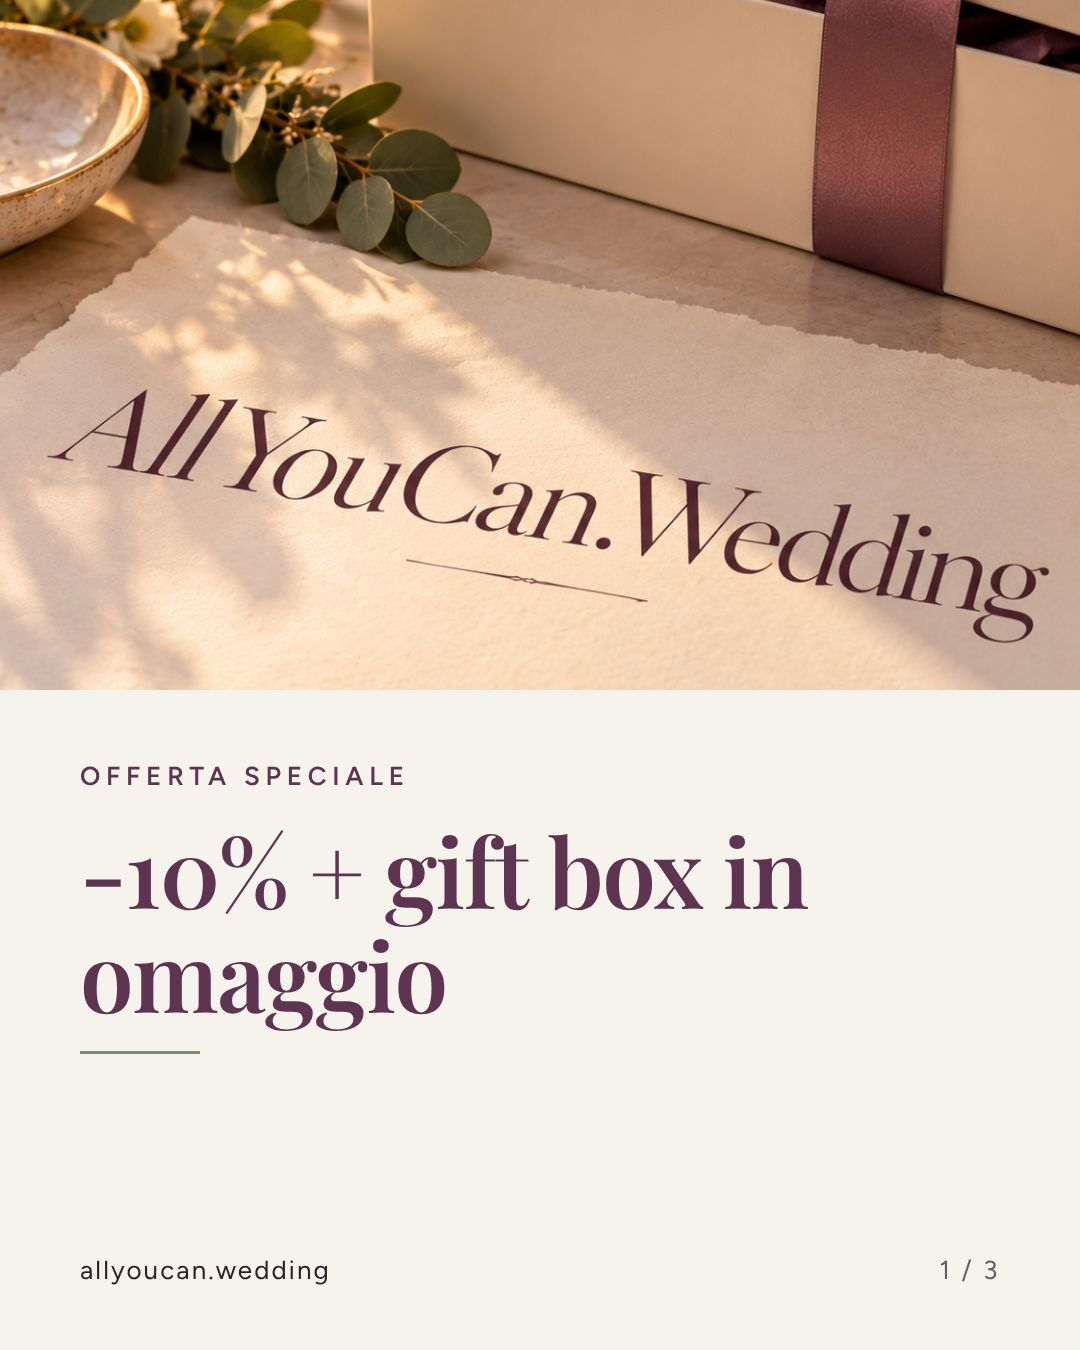
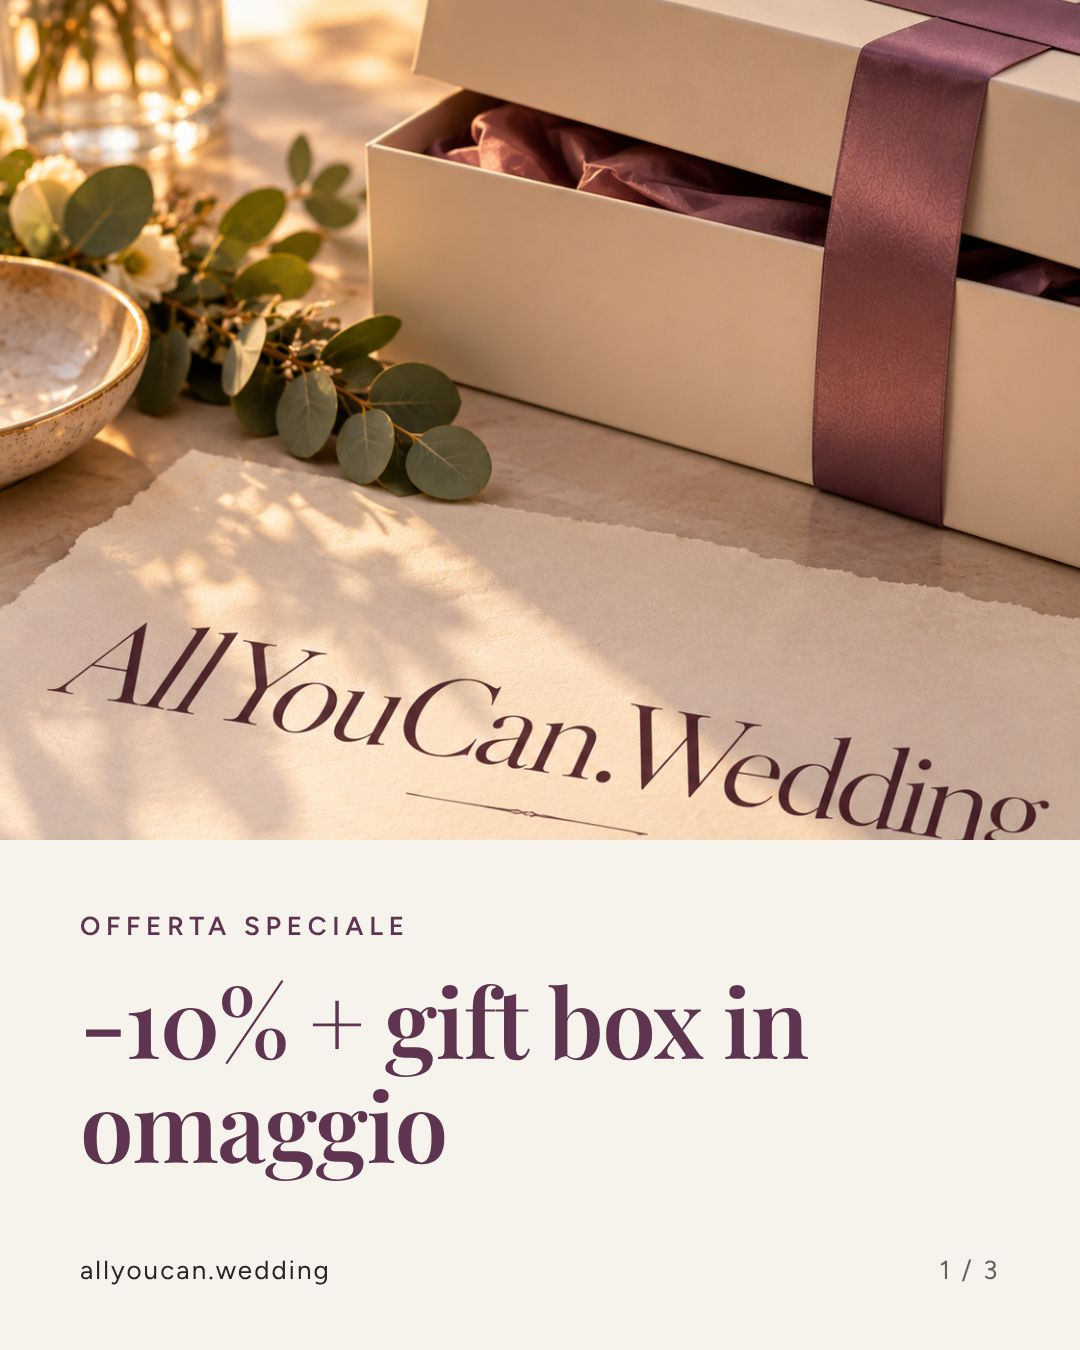
Promo novembre: copertina con gift box più visibile; render.py supporta img_height
Claude-Session: https://claude.ai/code/session_01SJ56hpRc5WY4agGRE8D63N

diff --git a/tools/render.py b/tools/render.py
@@ -5,7 +5,7 @@ Spec: {"post": "p04", "slides": [ {...}, ... ]}
 
 Tipi di slide (tutti i campi testo sono facoltativi tranne "title"):
   cover    foto a tutto schermo + eyebrow + title          campi: image, eyebrow, title
-  photo    foto in alto, testo sotto su avorio             campi: image, focus ("center", "top", "50% 30%"...), eyebrow, title, text
+  photo    foto in alto, testo sotto su avorio             campi: image, focus ("center", "top", "50% 30%"...), img_height (px, default 690), eyebrow, title, text
   text     fondo prugna, solo testo                        campi: eyebrow, title, text
   list     fondo avorio, elenco puntato numerato           campi: eyebrow, title, items[]
   question fondo prugna, domanda grande e opzioni          campi: eyebrow, title, options[]
@@ -98,9 +98,10 @@ def slide_html(s, i, n, workdir):
         return '<div class="s cover" style="background-image:url(\'%s\')"><div class="txt">%s<h1>%s</h1></div>%s</div>' % (
             img_url(s.get("image"), workdir), eye, e(s["title"]), foot)
     if t == "photo":
-        return ('<div class="s photo"><div class="img" style="background-image:url(\'%s\');background-position:%s"></div>'
-                '<div class="txt">%s<h2>%s</h2><div class="rule"></div>%s</div>%s</div>') % (
-            img_url(s.get("image"), workdir), s.get("focus", "center"), eye, e(s["title"]), text, foot)
+        rule = '<div class="rule"></div>' if text else ""
+        return ('<div class="s photo"><div class="img" style="background-image:url(\'%s\');background-position:%s;height:%dpx"></div>'
+                '<div class="txt">%s<h2>%s</h2>%s%s</div>%s</div>') % (
+            img_url(s.get("image"), workdir), s.get("focus", "center"), int(s.get("img_height", 690)), eye, e(s["title"]), rule, text, foot)
     if t == "list":
         items = "".join("<div>%s</div>" % e(x) for x in s.get("items", []))
         return '<div class="s list"><div class="txt">%s<h2>%s</h2><div class="items">%s</div></div>%s</div>' % (eye, e(s["title"]), items, foot)
